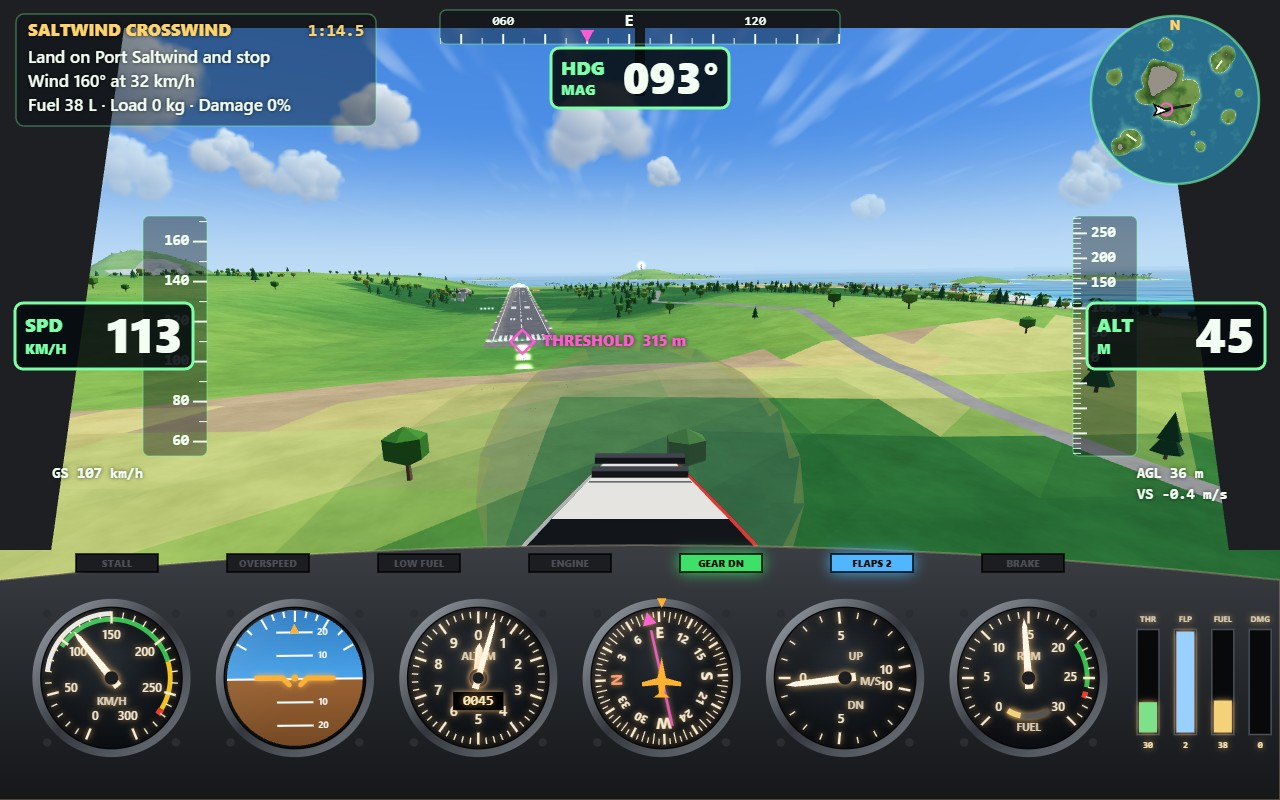
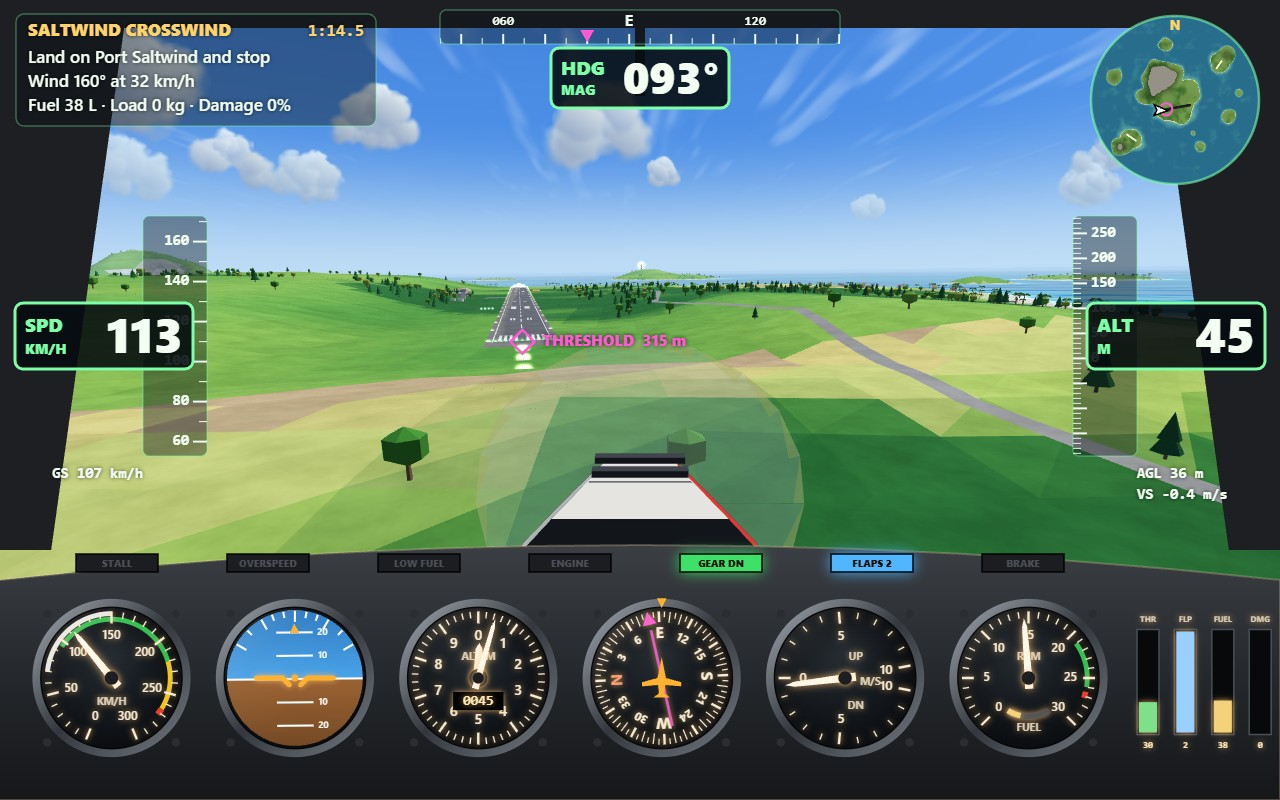
Prop disc glows as a light blur instead of a shaded dome

Changed region(s): [[0.375, 0.4375, 0.625, 0.6875]]

diff --git a/game/src/aircraft-mesh.js b/game/src/aircraft-mesh.js
@@ -101,7 +101,7 @@ function buildBlades(mb) {
 function buildDisc(mb) {
 	const { y, z } = HINGES.prop, p = (i, r) => [Math.cos(i * 0.314) * r, y + Math.sin(i * 0.314) * r, z];
 	for (let i = 0; i < 20; i++) {
-		mb.tri([0, y, z], p(i, 1.04), p(i + 1, 1.04), [0.8, 0.8, 0.8, 0]);
+		mb.tri([0, y, z], p(i, 1.04), p(i + 1, 1.04), [0.85, 0.85, 0.85, 0.5]);
 		mb.tri(p(i, 1.04), p(i, 0.97), p(i + 1, 1.04), [1, 0.85, 0.3, 0.4]);
 	}
 }
